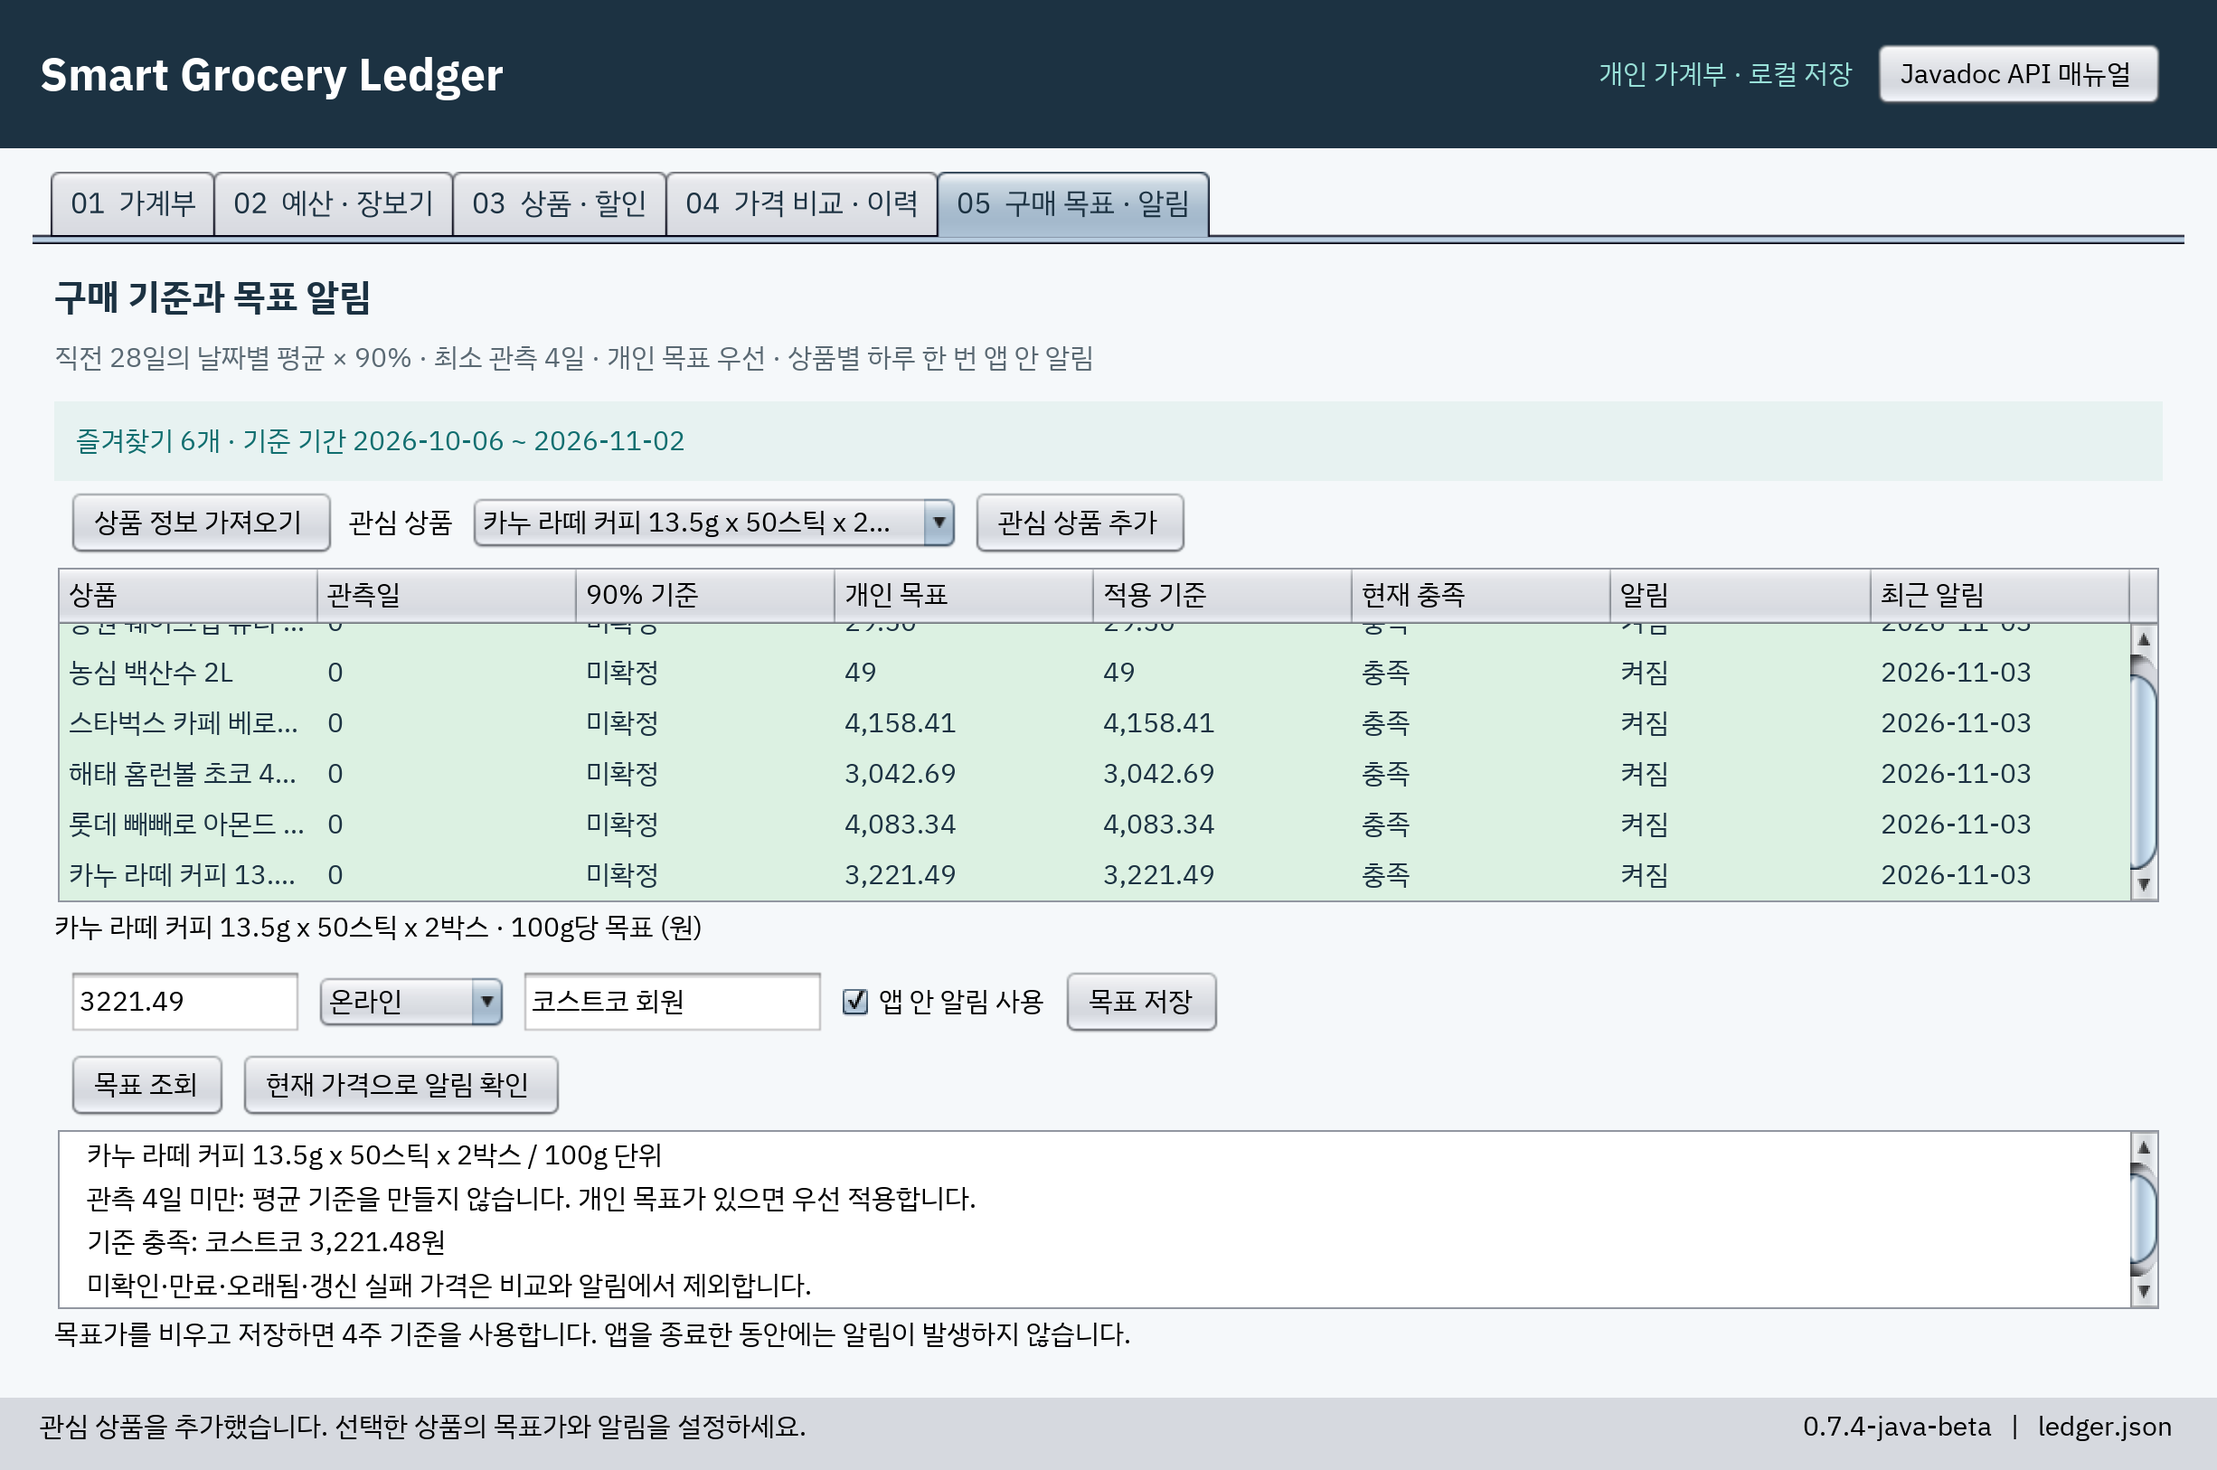
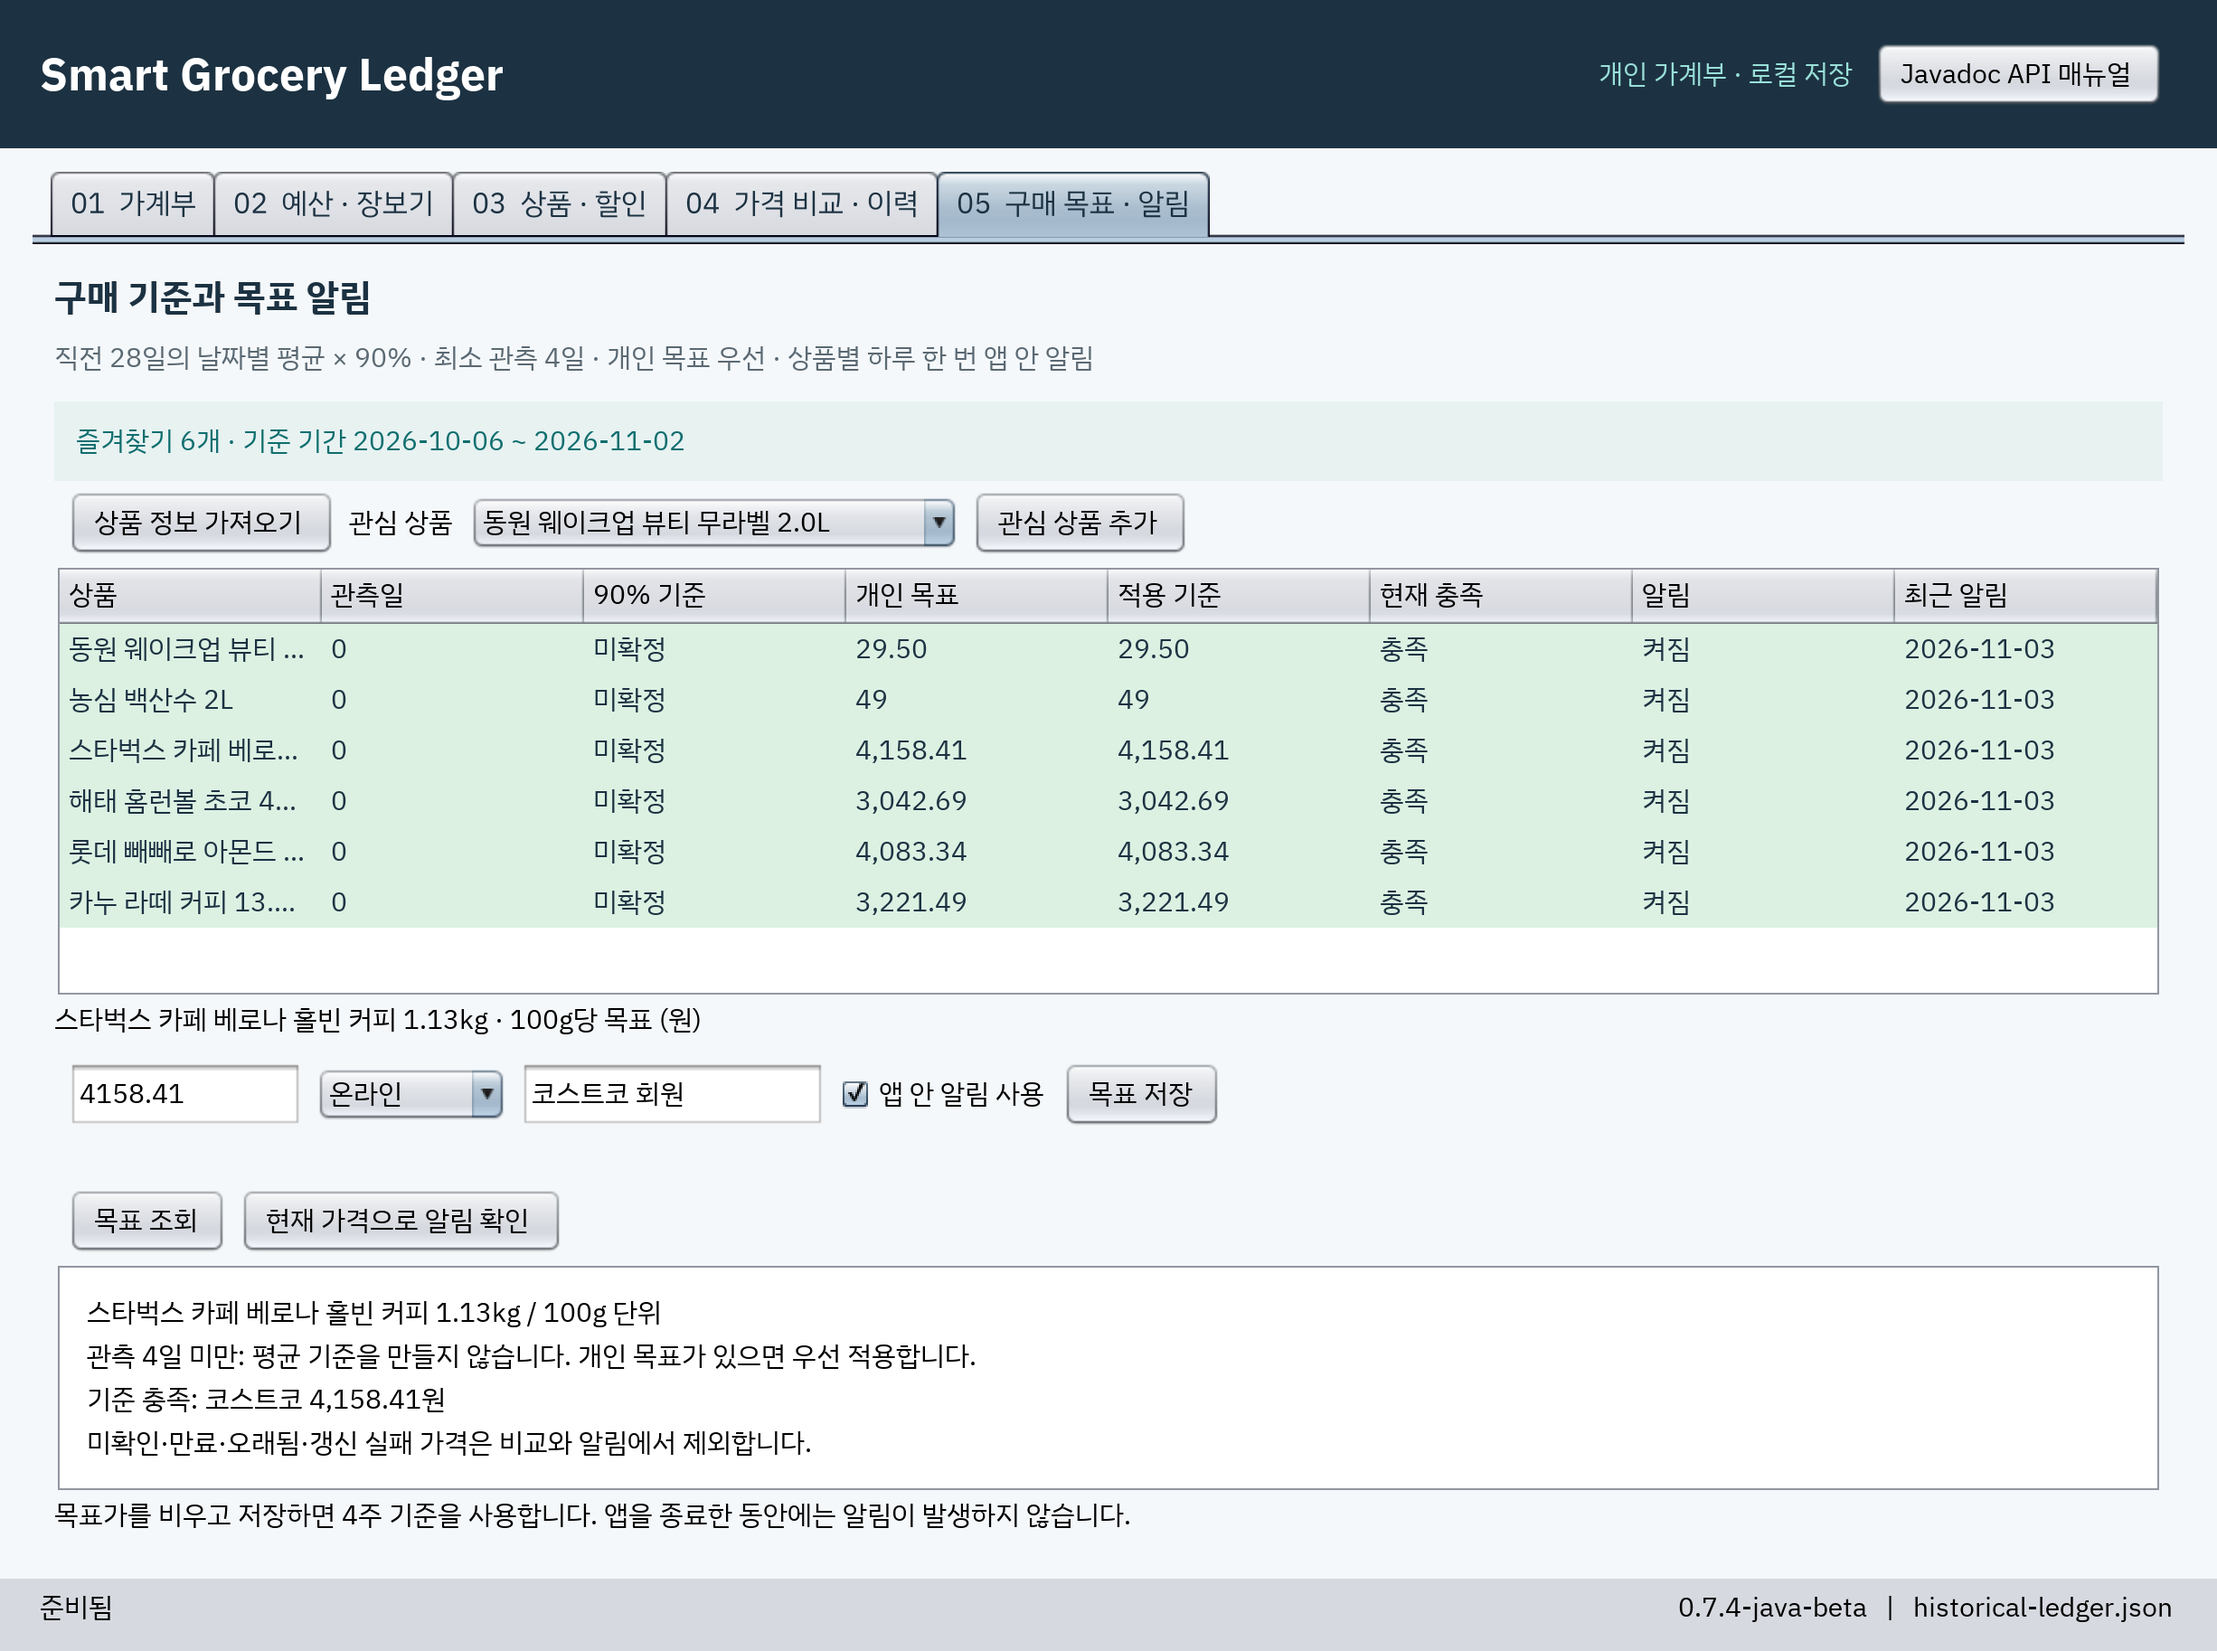
Align report diagrams and screenshots with beta implementation

Changed region(s): [[0.0, 0.0, 1.0, 0.984], [0.7439, 0.9533, 0.9918, 0.984], [0.9608, 0.7688, 0.9918, 0.8918]]

diff --git a/doc/architecture.md b/doc/architecture.md
@@ -68,3 +68,14 @@ LedgerFrame.dispose는 ProductTab.close를 호출합니다. ProductTab은 닫힘
 CollectionDialog는 selectionRevision으로 검색·상세 확인 요청 시점의 선택과 현재 선택을 대조합니다. 상품 행·주소·검색 조건이 바뀌면 미리보기와 등록 버튼을 해제하며 이전 선택의 지연 응답을 표시하지 않습니다. 등록·중지·재개 후에는 수집 출처 키로 같은 행을 선택합니다. ProductTab.selectRegisteredProduct는 새 상품이 기존 필터에 가려지지 않도록 표시합니다.
 
 TargetTab은 적용 기준이 없는 항목을 기준 없음으로 표시합니다. targetDirty인 동안 수동 알림 평가를 막아 저장된 이전 목표로 알림 이력을 소모하지 않게 합니다. 목표 저장과 새 알림 없음은 상태 표시줄에 안내합니다. TargetService의 저장된 목표 평가 계약은 유지합니다.
+
+## 서비스 호출 순서
+
+서비스 요청과 결과는 `Map<String, Object>`입니다. 상품은 `Product`, 관측은 `PriceObservation` 레코드로 표현합니다. 그림의 FN05는 `TargetService.managePurchaseTargets`를 뜻합니다. 입력 키와 상태값의 전체 계약은 Javadoc을 확인하세요.
+
+- [가계부 저장](sequence-ledger.png): 입력 검증 → 원자적 저장 → 영향을 받은 월의 집계 반환.
+- [예산·계획 저장](sequence-budget.png): 입력 검증 → 저장 요청 시 원자적 저장 → 소계·잔여 예산 계산. 저장 실패는 계산 전에 반환합니다. 조회와 초안 편집은 저장하지 않습니다.
+- [단가 비교·이력](sequence-prices.png): 기준 상품에서 규격·단위를 구하고 같은 조건의 현재 순위 또는 날짜별 정상 기록을 조회합니다.
+- [수집 후 목표 평가](sequence-targets.png): 수집 저장 성공 후 일반 메서드 호출로 EVALUATE를 요청합니다. 당일 알림 기록 저장에 성공한 결과만 화면에 표시합니다.
+
+그림은 주요 호출 순서를 요약합니다. 숫자는 본문과 대응하는 메시지 번호이며 생략된 사용자 입력 메시지는 화면 설명을 참고하세요. 함수의 시각은 생성자에 주입한 Clock에서 구합니다. 별도의 Request/Result 클래스나 PriceUpdated 이벤트 버스는 없습니다. 단가 나눗셈은 BigDecimal의 DECIMAL128 정밀도로 수행하고 화면 표시 자릿수는 따로 적용합니다.
